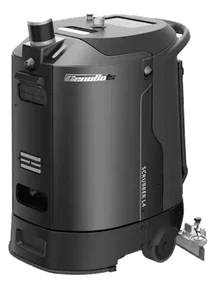
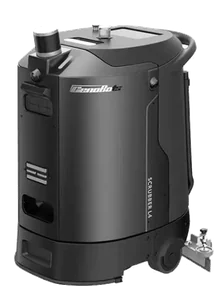
Robot tiles a touch smaller; scrubber sits lower and to the right
Claude-Session: https://claude.ai/code/session_01BZLxn37hPV3nyR5Dfttybs

Changed region(s): [[0.0278, 0.0312, 1.0, 1.0], [0.7222, 0.8125, 0.75, 0.8438]]

diff --git a/index.html b/index.html
@@ -254,7 +254,7 @@ a.card:hover .photo,a.card:focus-visible .photo{transform:translateY(-8px)}
 .spk__name a:hover,.spk__name a:focus-visible{text-decoration-color:currentColor}
 .spk__name a::after{content:"\2197";font-size:.5em;vertical-align:.7em;margin-left:.15em;opacity:.45}
 
-.spk__bot{position:absolute;z-index:3;right:var(--s1);bottom:var(--s1);width:72px;height:96px;border-radius:14px;overflow:hidden;background:rgba(255,255,255,.3);backdrop-filter:blur(10px);-webkit-backdrop-filter:blur(10px)}
+.spk__bot{position:absolute;z-index:3;right:var(--s1);bottom:var(--s1);width:66px;height:88px;border-radius:13px;overflow:hidden;background:rgba(255,255,255,.3);backdrop-filter:blur(10px);-webkit-backdrop-filter:blur(10px)}
 .photo .spk__bot img{position:static;width:100%;height:100%;object-fit:cover;filter:none;opacity:1;transform:none}
 .spk:hover .photo .spk__bot img{transform:none}
 .spk__co{display:inline-flex;align-items:center;gap:6px;white-space:nowrap}
@@ -316,7 +316,7 @@ a.ticker:focus-visible{outline-offset:-3px;border-radius:0}
   .spk__talk{margin-top:var(--s1);padding-top:8px;font-size:16px}
   .spk__note{font-size:14px}
   .spk__demo{left:6px;bottom:6px;height:24px;padding:0 9px;font-size:11px}
-  .spk__bot{width:34px;height:46px;right:6px;bottom:6px;top:auto;border-radius:8px}
+  .spk__bot{width:31px;height:42px;right:6px;bottom:6px;top:auto;border-radius:8px}
 }
 
 /* ---------- footer ---------- */
@@ -389,21 +389,21 @@ a.ticker:focus-visible{outline-offset:-3px;border-radius:0}
   <h2>Řečníci</h2>
   <div class="spk-grid">
     <article class="spk">
-      <div class="photo"><img loading="lazy" decoding="async" src="/img/sp-konecny.webp" alt="Tomáš Konečný"><span class="spk__bot spk__bot--wide"><img src="/img/bot-scrubber.webp" alt="Podlahový mycí robot" width="72" height="96" loading="lazy" decoding="async"></span></div>
+      <div class="photo"><img loading="lazy" decoding="async" src="/img/sp-konecny.webp" alt="Tomáš Konečný"><span class="spk__bot spk__bot--wide"><img src="/img/bot-scrubber.webp" alt="Podlahový mycí robot" width="66" height="88" loading="lazy" decoding="async"></span></div>
       <h3 class="spk__name"><a href="https://www.linkedin.com/in/tom%C3%A1%C5%A1-kone%C4%8Dn%C3%BD-360a63164/" target="_blank" rel="noopener" aria-label="Tomáš Konečný, Profil na LinkedIn">Tomáš Konečný</a></h3>
       <p class="spk__org">Robotservice</p>
       <p class="spk__talk">Běžné problémy servisních robotů</p>
       <p class="spk__note">Pět minut z praxe: co se na servisních robotech v provozu opravdu kazí.</p>
     </article>
     <article class="spk">
-      <div class="photo"><img loading="lazy" decoding="async" src="/img/sp-vitek.webp" alt="Lukáš Vítek"><span class="spk__demo">Živé demo</span><span class="spk__bot"><img src="/img/bot-integra.webp" alt="Humanoidní robot" width="72" height="96" loading="lazy" decoding="async"></span></div>
+      <div class="photo"><img loading="lazy" decoding="async" src="/img/sp-vitek.webp" alt="Lukáš Vítek"><span class="spk__demo">Živé demo</span><span class="spk__bot"><img src="/img/bot-integra.webp" alt="Humanoidní robot" width="66" height="88" loading="lazy" decoding="async"></span></div>
       <h3 class="spk__name"><a href="https://www.linkedin.com/in/vitek-lukas/" target="_blank" rel="noopener" aria-label="Lukáš Vítek, Profil na LinkedIn">Lukáš Vítek</a></h3>
       <p class="spk__org">Integra Robotics</p>
       <p class="spk__talk">Humanoid a physical AI</p>
       <p class="spk__note">Kde se humanoidi potkávají s physical AI. Integra přiveze humanoida na demo.</p>
     </article>
     <article class="spk">
-      <div class="photo"><img loading="lazy" decoding="async" src="/img/sp-danieau.webp" alt="Fabien Danieau"><span class="spk__demo">Živé demo</span><span class="spk__bot"><img src="/img/bot-reachy.webp" alt="Reachy Mini" width="72" height="96" loading="lazy" decoding="async"></span></div>
+      <div class="photo"><img loading="lazy" decoding="async" src="/img/sp-danieau.webp" alt="Fabien Danieau"><span class="spk__demo">Živé demo</span><span class="spk__bot"><img src="/img/bot-reachy.webp" alt="Reachy Mini" width="66" height="88" loading="lazy" decoding="async"></span></div>
       <h3 class="spk__name"><a href="https://www.linkedin.com/in/fabiendanieau/" target="_blank" rel="noopener" aria-label="Fabien Danieau, Profil na LinkedIn">Fabien Danieau</a></h3>
       <p class="spk__org"><span class="spk__co"><img src="/img/logo-pollen.webp" alt="" width="16" height="18">Pollen Robotics</span><span class="spk__co"><img src="/img/logo-hf.svg" alt="" width="20" height="18">Hugging Face</span></p>
       <p class="spk__talk">Reachy Mini: open-source stolní robot</p>

diff --git a/en/index.html b/en/index.html
@@ -254,7 +254,7 @@ a.card:hover .photo,a.card:focus-visible .photo{transform:translateY(-8px)}
 .spk__name a:hover,.spk__name a:focus-visible{text-decoration-color:currentColor}
 .spk__name a::after{content:"\2197";font-size:.5em;vertical-align:.7em;margin-left:.15em;opacity:.45}
 
-.spk__bot{position:absolute;z-index:3;right:var(--s1);bottom:var(--s1);width:72px;height:96px;border-radius:14px;overflow:hidden;background:rgba(255,255,255,.3);backdrop-filter:blur(10px);-webkit-backdrop-filter:blur(10px)}
+.spk__bot{position:absolute;z-index:3;right:var(--s1);bottom:var(--s1);width:66px;height:88px;border-radius:13px;overflow:hidden;background:rgba(255,255,255,.3);backdrop-filter:blur(10px);-webkit-backdrop-filter:blur(10px)}
 .photo .spk__bot img{position:static;width:100%;height:100%;object-fit:cover;filter:none;opacity:1;transform:none}
 .spk:hover .photo .spk__bot img{transform:none}
 .spk__co{display:inline-flex;align-items:center;gap:6px;white-space:nowrap}
@@ -316,7 +316,7 @@ a.ticker:focus-visible{outline-offset:-3px;border-radius:0}
   .spk__talk{margin-top:var(--s1);padding-top:8px;font-size:16px}
   .spk__note{font-size:14px}
   .spk__demo{left:6px;bottom:6px;height:24px;padding:0 9px;font-size:11px}
-  .spk__bot{width:34px;height:46px;right:6px;bottom:6px;top:auto;border-radius:8px}
+  .spk__bot{width:31px;height:42px;right:6px;bottom:6px;top:auto;border-radius:8px}
 }
 
 /* ---------- footer ---------- */
@@ -389,21 +389,21 @@ a.ticker:focus-visible{outline-offset:-3px;border-radius:0}
   <h2>Speakers</h2>
   <div class="spk-grid">
     <article class="spk">
-      <div class="photo"><img loading="lazy" decoding="async" src="/img/sp-konecny.webp" alt="Tomáš Konečný"><span class="spk__bot spk__bot--wide"><img src="/img/bot-scrubber.webp" alt="Floor scrubber robot" width="72" height="96" loading="lazy" decoding="async"></span></div>
+      <div class="photo"><img loading="lazy" decoding="async" src="/img/sp-konecny.webp" alt="Tomáš Konečný"><span class="spk__bot spk__bot--wide"><img src="/img/bot-scrubber.webp" alt="Floor scrubber robot" width="66" height="88" loading="lazy" decoding="async"></span></div>
       <h3 class="spk__name"><a href="https://www.linkedin.com/in/tom%C3%A1%C5%A1-kone%C4%8Dn%C3%BD-360a63164/" target="_blank" rel="noopener" aria-label="Tomáš Konečný, LinkedIn profile">Tomáš Konečný</a></h3>
       <p class="spk__org">Robotservice</p>
       <p class="spk__talk">Common facility robot issues</p>
       <p class="spk__note">Five minutes from the field: what really breaks on service robots in operation.</p>
     </article>
     <article class="spk">
-      <div class="photo"><img loading="lazy" decoding="async" src="/img/sp-vitek.webp" alt="Lukáš Vítek"><span class="spk__demo">Live demo</span><span class="spk__bot"><img src="/img/bot-integra.webp" alt="Humanoid robot" width="72" height="96" loading="lazy" decoding="async"></span></div>
+      <div class="photo"><img loading="lazy" decoding="async" src="/img/sp-vitek.webp" alt="Lukáš Vítek"><span class="spk__demo">Live demo</span><span class="spk__bot"><img src="/img/bot-integra.webp" alt="Humanoid robot" width="66" height="88" loading="lazy" decoding="async"></span></div>
       <h3 class="spk__name"><a href="https://www.linkedin.com/in/vitek-lukas/" target="_blank" rel="noopener" aria-label="Lukáš Vítek, LinkedIn profile">Lukáš Vítek</a></h3>
       <p class="spk__org">Integra Robotics</p>
       <p class="spk__talk">Humanoids and physical AI</p>
       <p class="spk__note">Where humanoids meet physical AI. Integra brings their humanoid for a live demo.</p>
     </article>
     <article class="spk">
-      <div class="photo"><img loading="lazy" decoding="async" src="/img/sp-danieau.webp" alt="Fabien Danieau"><span class="spk__demo">Live demo</span><span class="spk__bot"><img src="/img/bot-reachy.webp" alt="Reachy Mini" width="72" height="96" loading="lazy" decoding="async"></span></div>
+      <div class="photo"><img loading="lazy" decoding="async" src="/img/sp-danieau.webp" alt="Fabien Danieau"><span class="spk__demo">Live demo</span><span class="spk__bot"><img src="/img/bot-reachy.webp" alt="Reachy Mini" width="66" height="88" loading="lazy" decoding="async"></span></div>
       <h3 class="spk__name"><a href="https://www.linkedin.com/in/fabiendanieau/" target="_blank" rel="noopener" aria-label="Fabien Danieau, LinkedIn profile">Fabien Danieau</a></h3>
       <p class="spk__org"><span class="spk__co"><img src="/img/logo-pollen.webp" alt="" width="16" height="18">Pollen Robotics</span><span class="spk__co"><img src="/img/logo-hf.svg" alt="" width="20" height="18">Hugging Face</span></p>
       <p class="spk__talk">Reachy Mini: open-source desk robot</p>
